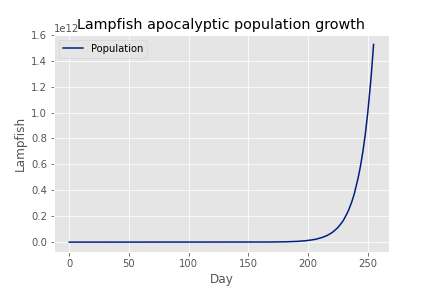
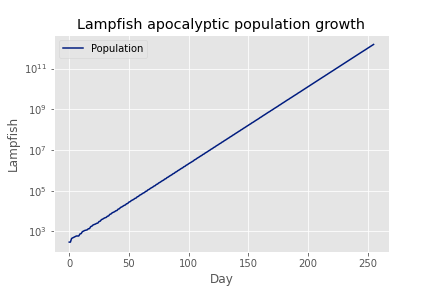
Day 06 - improved to return n(fish) at start of each day

diff --git a/AOC2021/06-solution.py b/AOC2021/06-solution.py
@@ -3,11 +3,12 @@ import numpy as np
 data = np.loadtxt("input/06", delimiter=",", dtype=int)
 fish = np.zeros((9,1), dtype=int)
 
+
 def fishbreeder(arr, days):
-    popgraph = np.zeros((days,2), dtype=int)
+    popgraph = np.zeros((days+1,1), dtype=int) #to store number of fish at end of each day
     for day in range(days):
-        popgraph[day,0] = day
-        popgraph[day,1] = np.sum(arr[:,0])
+        if (day) == 0:
+            popgraph[day,0] = np.sum(arr[:,0])
         new = np.zeros((9,1), dtype=int)
         for i in np.ndenumerate(arr):
             if i[0][0] == 0:
@@ -16,18 +17,19 @@ def fishbreeder(arr, days):
             else:
                 new[i[0][0]-1,0] += i[1]
         arr = new
-    # returns a tuple. [0] is n(fish) on the final day, [1] is a 2d array of days versus n(fish), for graphing
+        popgraph[day+1,0] = np.sum(arr[:,0])
+    # tuple[0] is n(fish) on the final day
+    # tuple[1] contains a 1d array of n(fish) at the start of day n
+    # because the value is the start of the day before breeding, the size of popgraph is days + 1
     return(np.sum(arr[:,0]), popgraph)
+
 
 for i in range(9): 
     count = np.count_nonzero(data == i)
     fish[i,0] = count
 
-day80 = fishbreeder(fish,80)
-print(day80[0])
-day256 = fishbreeder(fish,256)
-print(day256[0])
+print(fishbreeder(fish,80)[0])
+print(fishbreeder(fish,256)[0])
 
 #alternate method based on exponents
 # print("part2:", int(1.11622269641992 ** 256))
-
